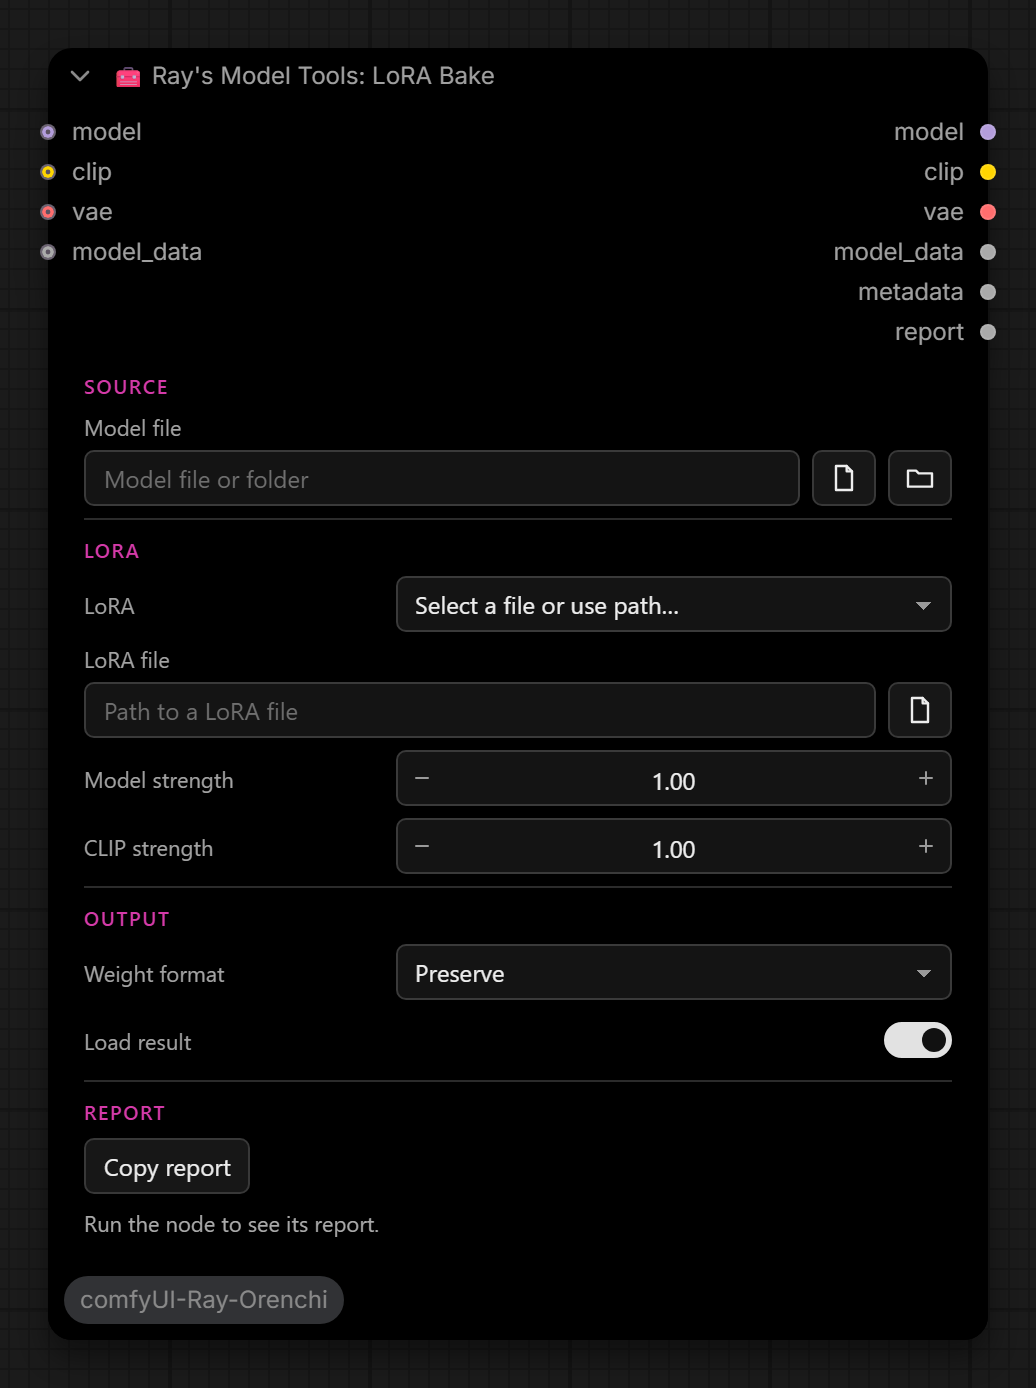
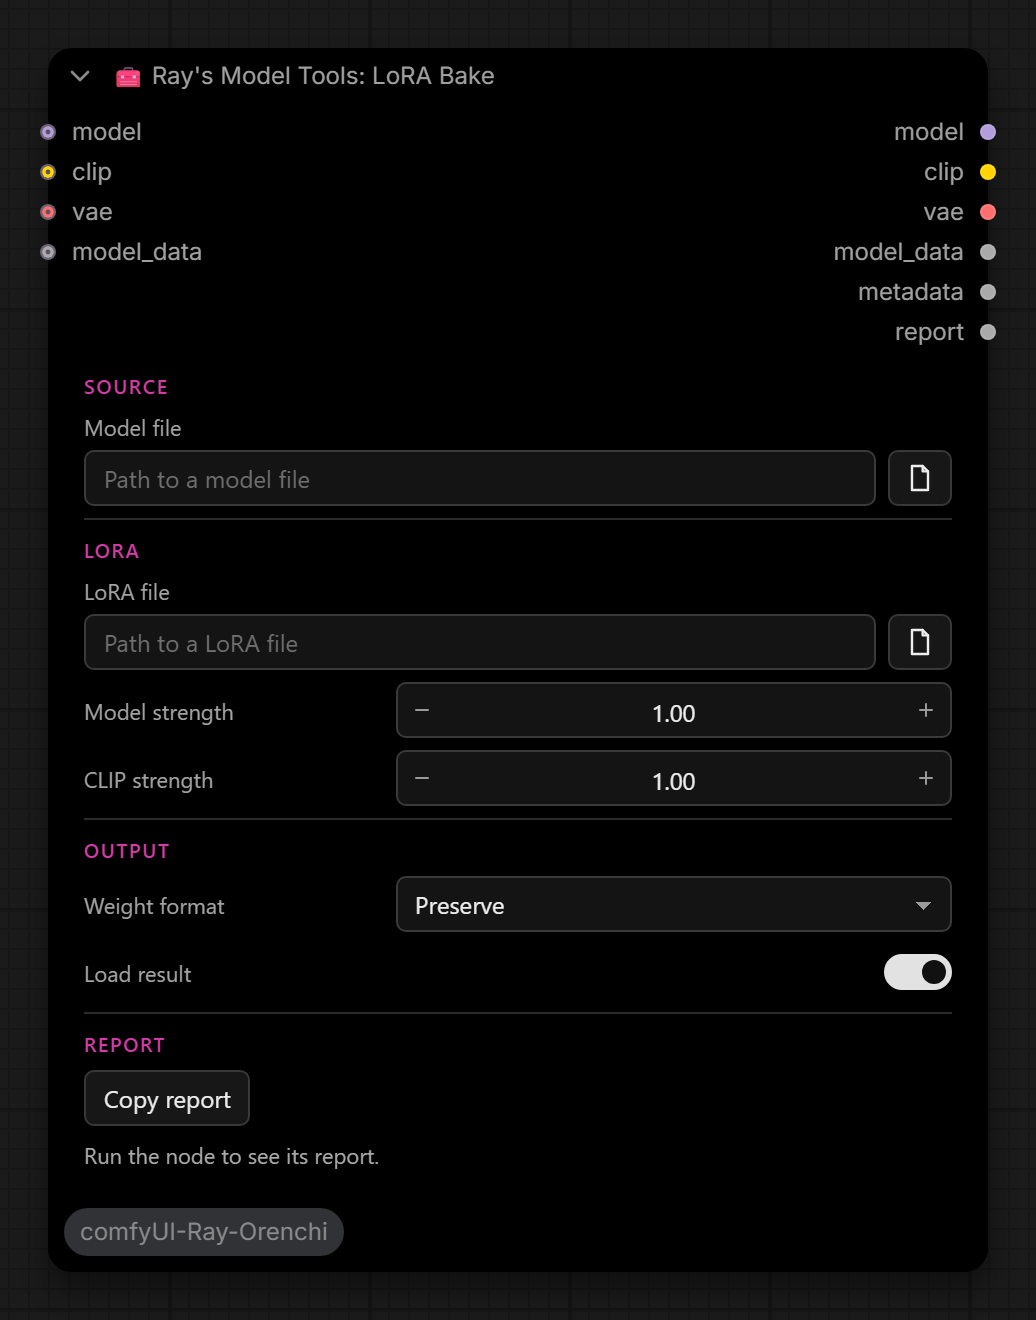
Simplify model tool sources to one file picker

diff --git a/web/ray_model_tools.js b/web/ray_model_tools.js
@@ -2,7 +2,7 @@ import { app } from "../../scripts/app.js";
 import { api } from "../../scripts/api.js";
 import { installPanel, linkOf } from "./ray_panel.js";
 import { applyBucketTint, setWidgetHidden } from "./_common.js";
-import { browseInto, notify } from "./browse_common.js";
+import { notify } from "./browse_common.js";
 import { metadataRows, rowsToMetadata, mergeFields, filterTensors, parseMetadataJSON } from "./model_tools_ui.mjs";
 
 const IDS = new Set(["RayModelLoadAs", "RayModelConvert", "RayModelSave", "RayModelMetadata", "RayModelMetadataSave",
@@ -230,7 +230,7 @@ const SECTIONS = {
     ],
 };
 const LABELS = {
-    model_name: "Model file", lora_name: "LoRA", lora_path: "LoRA file",
+    model_name: "Model file", lora_name: "LoRA file", lora_path: "LoRA file",
     strength_model: "Model strength", strength_clip: "CLIP strength", metadata_json: "Metadata (JSON)",
     path: "Model file", path_a: "Model A file", path_b: "Model B file", base_path: "Base model file",
     finetuned_path: "Fine-tuned model file", source_model_path: "Source model file", output_path: "Output file",
@@ -240,20 +240,22 @@ const INSPECT_FILTERS = [["Model files", ["safetensors", "gguf"]]];
 const METADATA_FILTERS = [["Models / metadata", ["safetensors", "json"]]];
 const outputExtension = (node, id) => id === "RayModelMetadataSave" && value(node, "mode") === "json_sidecar" ? "json" : "safetensors";
 
-function normalizeLoadSource(node) {
-    const source = widget(node, "model_name"), legacy = widget(node, "path");
+function normalizeSource(node, name, legacyName) {
+    const source = widget(node, name), legacy = widget(node, legacyName);
     if (!source) return;
-    const input = node.inputs?.find(input => input.name === "model_name" || input.widget?.name === "model_name");
+    const input = node.inputs?.find(input => input.name === name || input.widget?.name === name);
     if (input?.type === "COMBO") input.type = "STRING";
-    if (legacy?.value && !linkOf(node, "path")) {
-        if (!linkOf(node, "model_name")) source.value = legacy.value;
+    if (legacy?.value && !linkOf(node, legacyName)) {
+        if (!linkOf(node, name)) source.value = legacy.value;
         legacy.value = "";
     }
     if (source.value === "Select a file or use path…") source.value = "";
 }
 
 export function installModelTools(node, id) {
-    if (id === "RayModelLoadAs") normalizeLoadSource(node);
+    const sourceNames = id === "RayModelLoadAs" ? ["model_name", "path"]
+        : id === "RayLoraBake" ? ["lora_name", "lora_path"] : null;
+    if (sourceNames) normalizeSource(node, ...sourceNames);
     if (node._rayModelTools) return;
     node._rayModelTools = true; styles(); applyBucketTint(node, "Tools");
     const hidden = id === "RayModelMetadata" ? ["editor_json", "editor_source"]
@@ -261,22 +263,19 @@ export function installModelTools(node, id) {
     for (const name of hidden) if (widget(node, name)) setWidgetHidden(node, widget(node, name), true);
     const native = (node.widgets || []).filter(w => w.type !== "button" && w.name !== "control_after_generate" && !hidden.includes(w.name));
     const fields = native.map(w => {
-        const field = { name: w.name, label: LABELS[w.name], full: /path|model_name|block_weights|metadata_json/.test(w.name) };
-        if (/^(model_name|path|path_a|path_b|base_path|finetuned_path|lora_path|source_model_path)$/.test(w.name)) {
+        const field = { name: w.name, label: LABELS[w.name], full: /path|model_name|lora_name|block_weights|metadata_json/.test(w.name) };
+        if (/^(model_name|lora_name|path|path_a|path_b|base_path|finetuned_path|lora_path|source_model_path)$/.test(w.name)) {
             const metadata = id === "RayModelMetadata";
             if (metadata) field.label = "Model / metadata file";
             field.browse = { kind: "file", title: `Choose ${field.label.toLowerCase()}`,
                 filters: metadata ? METADATA_FILTERS : id === "RayModelInspector" ? INSPECT_FILTERS : MODEL_FILTERS };
-            field.placeholder = metadata ? "Model file, folder or metadata JSON" : "Model file or folder";
-            if (w.name === "lora_path") field.placeholder = "Path to a LoRA file";
-            else if (w.name === "source_model_path") field.placeholder = "Path to a model file";
-            else field.actions = [{ icon: "folder", title: "Choose a model folder",
-                onClick: () => browseInto(node, w.name, { kind: "folder", title: "Choose a model folder" }) }];
+            field.placeholder = metadata ? "Path to a model or metadata JSON file" : "Path to a model file";
+            if (["lora_name", "lora_path"].includes(w.name)) field.placeholder = "Path to a LoRA file";
         }
-        if (id === "RayModelLoadAs" && ["model_name", "path"].includes(w.name)) {
+        if (sourceNames?.includes(w.name)) {
             field.when = n => {
-                normalizeLoadSource(n);
-                return !!linkOf(n, "path") === (w.name === "path");
+                normalizeSource(n, ...sourceNames);
+                return !!linkOf(n, sourceNames[1]) === (w.name === sourceNames[1]);
             };
         }
         if (id === "RayModelLoadAs" && ["loader", "load_components"].includes(w.name)) {

diff --git a/ray_model_tools.py b/ray_model_tools.py
@@ -424,7 +424,7 @@ class RayLoraBake:
 
     @classmethod
     def INPUT_TYPES(cls):
-        return {"required": {"lora_name": combo(files("loras")), "strength_model": number(1., -20., 20.),
+        return {"required": {"lora_name": text(), "strength_model": number(1., -20., 20.),
                              "strength_clip": number(1., -20., 20.), "weight_format": combo(core.FORMATS, "preserve"),
                              "load_result": ("BOOLEAN", {"default": True})},
                 "optional": {"model": ("MODEL",), "clip": ("CLIP",), "vae": ("VAE",),

diff --git a/MODEL_TOOLS.md b/MODEL_TOOLS.md
@@ -5,7 +5,7 @@ ModelMergeTools app and its FastAPI server are not required.
 
 | Node | Purpose |
 | --- | --- |
-| [Load Model As](screenshots/RayModelLoadAs.png) | Choose a safetensors checkpoint/diffusion model with the file picker, or select a sharded model directory. Auto detects the loader. |
+| [Load Model As](screenshots/RayModelLoadAs.png) | Choose a safetensors checkpoint/diffusion model with the file picker. Auto detects the loader. |
 | [Convert Model](screenshots/RayModelConvert.png) | Convert a file or connected MODEL into another storage format. |
 | [Save Model](screenshots/RayModelSave.png) | Save the effective model, including active merge and LoRA patches, with optional CLIP/VAE and metadata. |
 | [Metadata Load / Edit](screenshots/RayModelMetadata.png) | Read model metadata or a JSON sidecar into an editable table and raw JSON editor. |
@@ -13,7 +13,7 @@ ModelMergeTools app and its FastAPI server are not required.
 | [Model Merge](screenshots/RayModelMerge.png) | LERP, SLERP, TIES, DARE-Linear, DARE-TIES, DELLA, DELLA-TIES, Breadcrumbs, Breadcrumbs-TIES. |
 | [Model Inspector](screenshots/RayModelInspector.png) | Header-only tensor listing, dtype distribution, byte counts, and architecture detection. |
 | [Model Compare](screenshots/RayModelCompare.png) | Compare names, shapes and dtypes before merging. |
-| [LoRA Bake](screenshots/RayLoraBake.png) | Bake an adapter using ComfyUI's adapter mappings and supported LoRA variants. |
+| [LoRA Bake](screenshots/RayLoraBake.png) | Choose a LoRA file and bake it using ComfyUI's adapter mappings and supported LoRA variants. |
 | [LoRA Extract](screenshots/RayLoraExtract.png) | SVD extraction from finetuned minus base, including convolution weights. |
 
 
@@ -26,7 +26,6 @@ between model operations and Save Model.
 Reports are also available as STRING outputs.
 
 Use the file icon beside a source path to choose a model or metadata file.
-Where available, the folder icon chooses a model directory, including sharded models.
 The file icon beside **Output file** opens Save As; Metadata Save switches
 between JSON and safetensors according to its mode. Leave Output file blank to
 use the filename prefix and ComfyUI output folder. Choosing a path does not

diff --git a/NODES.md b/NODES.md
@@ -709,7 +709,7 @@ connect Save Image or another output node when you want to save them.
 
 ![🧰 Ray's Model Tools: Load Model As](screenshots/RayModelLoadAs.png)
 
-**Purpose.** Choose a checkpoint or diffusion model with the file picker, or select a sharded model folder. Load it automatically or with an explicit storage format. Also accepts a `model_data` handle; returns MODEL, CLIP, VAE, model data, metadata, and a report.
+**Purpose.** Choose a checkpoint or diffusion model with the file picker. Load it automatically or with an explicit storage format. Also accepts a `model_data` handle; returns MODEL, CLIP, VAE, model data, metadata, and a report.
 
 For a file-only merge, turn **Load result** off and leave the format on **Auto** or **Preserve**. The node passes the source to `model_data` after reading its headers, without loading or rewriting the weights. Choose the final precision in Model Merge.
 
